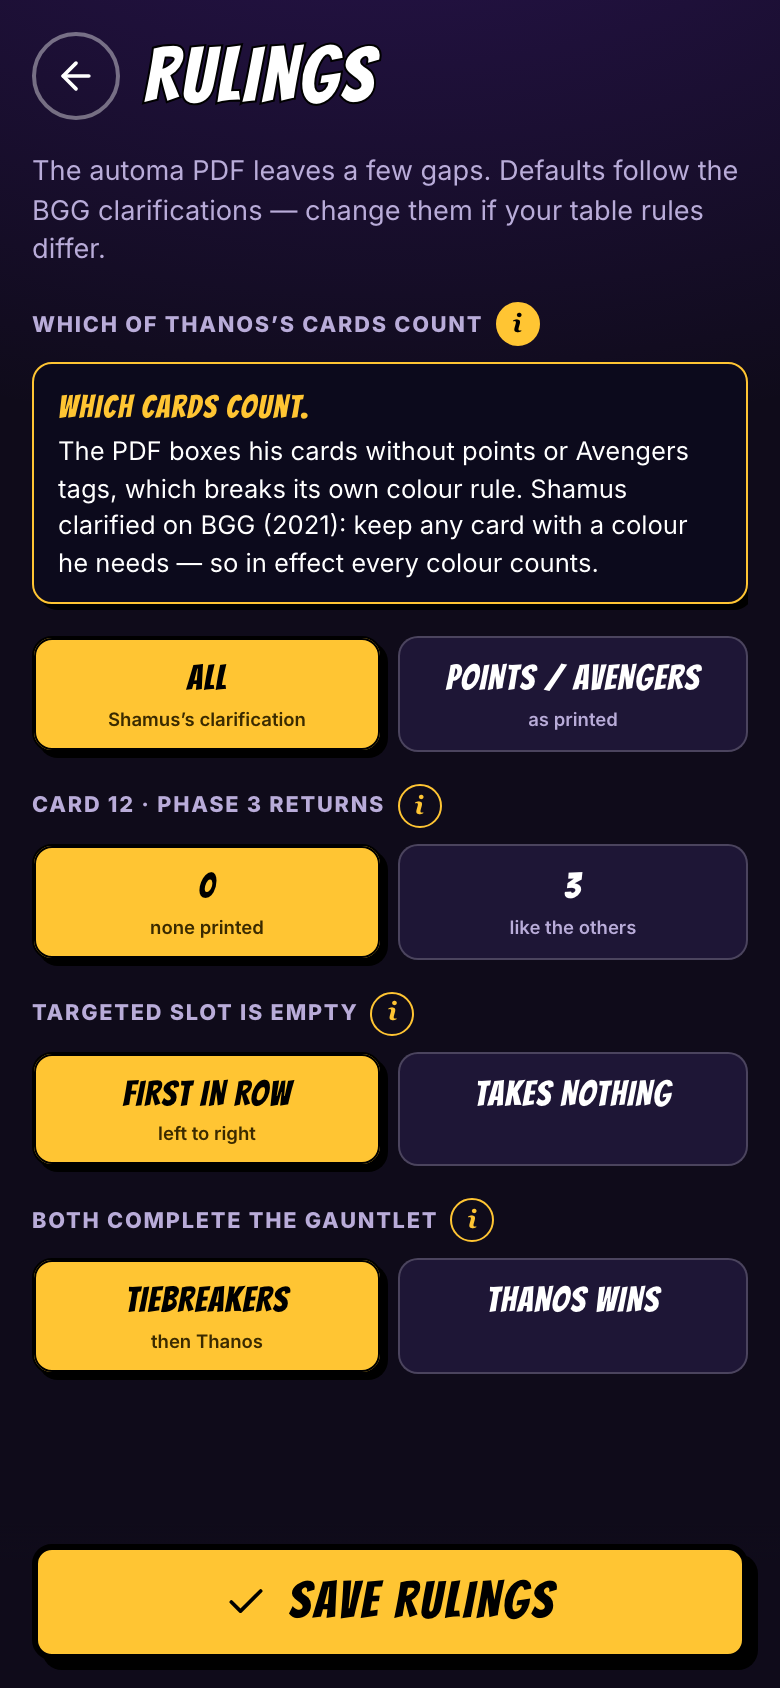
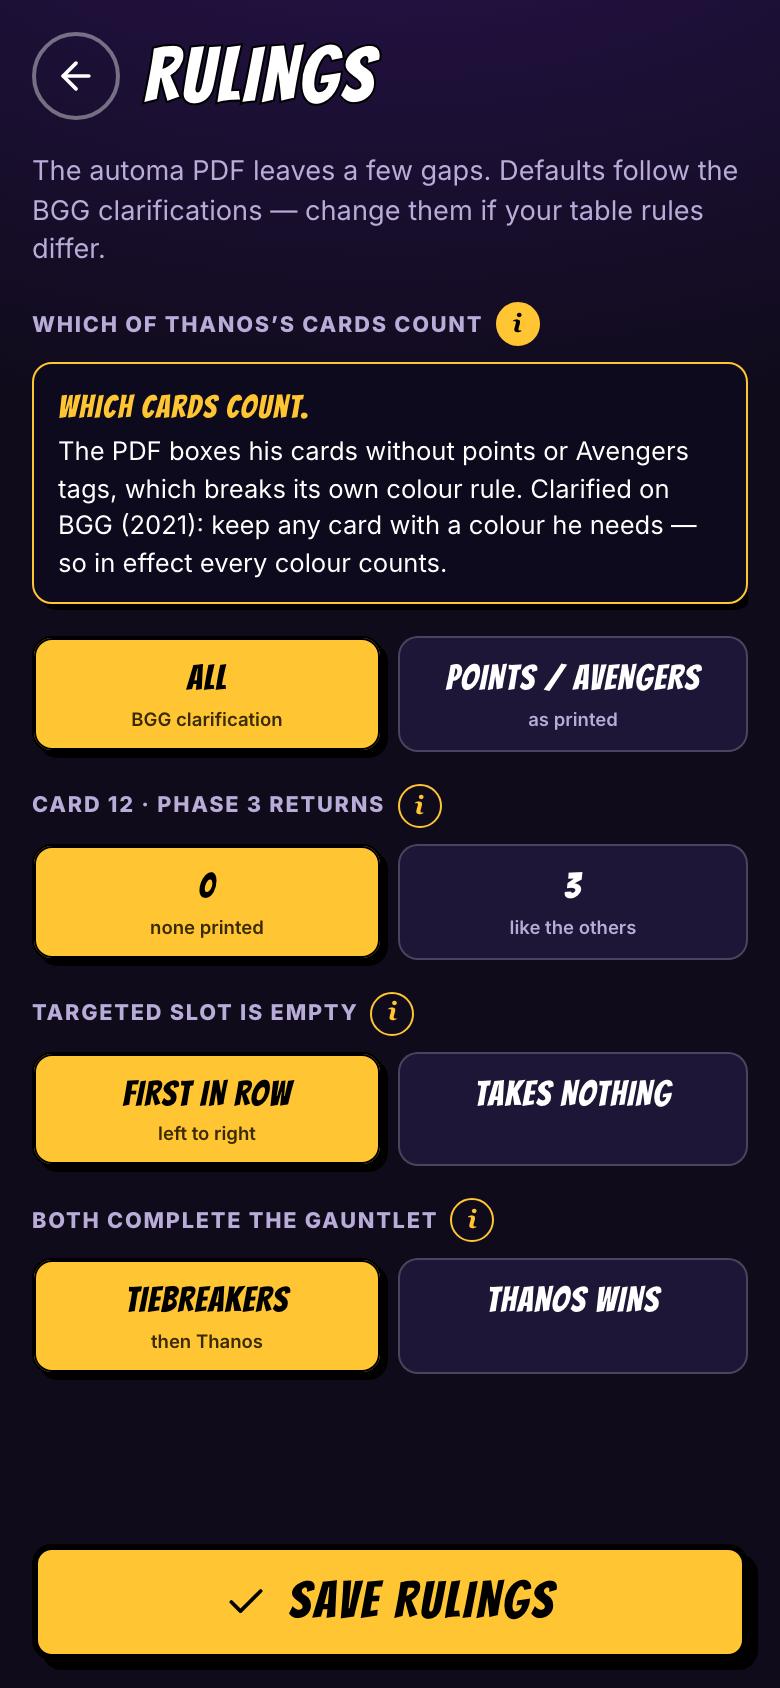
Stop naming the Marvel re-theme's author (#91)
The re-theme's author asked not to be credited, so the name is gone from the app (credits, copyright notice and ruling hints, in five languages), the landing page, the docs and the design. AGENTS.md now says never to name them.

Changed region(s): [[0.0615, 0.2773, 0.8923, 0.3389], [0.1538, 0.4005, 0.3692, 0.4313]]

diff --git a/src/ui/App.test.tsx b/src/ui/App.test.tsx
@@ -86,7 +86,7 @@ describe('home, setup and rulings (#44)', () => {
     await user.click(screen.getByRole('button', { name: /12 TOKENS/ }))
     await user.click(screen.getByRole('button', { name: /Rulings for gaps/ }))
     await user.click(screen.getByRole('button', { name: 'Rule: Which cards count' }))
-    expect(screen.getByRole('note')).toHaveTextContent(/Shamus clarified on BGG/)
+    expect(screen.getByRole('note')).toHaveTextContent(/Clarified on BGG \(2021\)/)
     await user.click(screen.getByRole('button', { name: 'SAVE RULINGS' }))
     await user.click(screen.getByRole('button', { name: 'START GAME' }))
 

diff --git a/src/engine/settings.ts b/src/engine/settings.ts
@@ -15,7 +15,7 @@ export interface Settings {
   readonly emptySlot: 'firstInRow' | 'nothing'
   /** Both sides complete the Gauntlet: official tiebreakers then Thanos, or Thanos outright. */
   readonly ties: 'tiebreakersThenThanos' | 'thanosWins'
-  /** Which of Thanos's cards count: all (Shamus's clarification) or only scoring/Avengers cards. */
+  /** Which of Thanos's cards count: all (the BGG clarification) or only scoring/Avengers cards. */
   readonly countedCards: 'all' | 'scoringOnly'
   /** Maximum tokens in Thanos's stack; the oldest beyond it go back to the supply. */
   readonly stackCap: number | null

diff --git a/src/ui/components/Credits.tsx b/src/ui/components/Credits.tsx
@@ -22,13 +22,6 @@ export function Credits({ tone = 'dark' }: { tone?: 'dark' | 'paper' }) {
           {t('credits.automa.after')}
         </li>
         <li>
-          <strong>{t('credits.retheme.name')}</strong>: {t('credits.retheme.before')}{' '}
-          <a href="https://boardgamegeek.com/filepage/215783" target="_blank" rel="noreferrer">
-            Shamus
-          </a>{' '}
-          {t('credits.retheme.after')}
-        </li>
-        <li>
           <strong>{t('credits.fonts.name')}</strong>: {t('credits.fonts.text')}
         </li>
       </ul>

diff --git a/site/index.html b/site/index.html
@@ -421,7 +421,6 @@ npm run build
           <ul>
             <li>{{credits.game}}</li>
             <li>{{credits.automa}}</li>
-            <li>{{credits.retheme}}</li>
             <li>{{credits.fonts}}</li>
           </ul>
           <p>{{credits.trademarks}}</p>

diff --git a/docs/automa.md b/docs/automa.md
@@ -9,9 +9,11 @@ The automa this app runs. A copy of the PDF, `splendor-marvel-solo-automa-v1.pdf
 - **Automa design:** Dukefanblue2005 (BGG), originally made for base Splendor:
   [Splendor Automa](https://boardgamegeek.com/filepage/201926),
   [design thread](https://boardgamegeek.com/thread/2430634).
-- **Marvel re-theme:** Shamus (BGG):
-  [Splendor Marvel Solo Automa V1](https://boardgamegeek.com/filepage/215783). The 12 Marvel cards are
-  a 1:1 renumbered port of the base-game cards. There is no Marvel V2.
+- **Marvel re-theme:**
+  [Splendor Marvel Solo Automa V1](https://boardgamegeek.com/filepage/215783) on BGG. Its author
+  prefers not to be credited, so this project doesn't name them (see the
+  [community note](#community-note)). The 12 Marvel cards are a 1:1 renumbered port of the base-game
+  cards. There is no Marvel V2.
 
 ## Components
 
@@ -113,7 +115,7 @@ Checked against a high-resolution render of the PDF. Token numbers refer to the 
 ## Clarifications from BGG
 
 1. **Which cards Thanos keeps.** The PDF says to box cards without points or Avengers tags, which
-   breaks the colour rule. Shamus,
+   breaks the colour rule. The re-theme's author clarified on its file page,
    [2021-07-18](https://boardgamegeek.com/filepage/215783?commentid=10332239):
 
    > "keep the card if is has a colour the automa needs or if it provides points or it has the
@@ -141,7 +143,7 @@ that updates this table.
 
 | Question | Default | Alternatives | Basis |
 | --- | --- | --- | --- |
-| Which of Thanos's cards count for colours and the Gauntlet | **All of them** | Only cards with points or Avengers tags (as printed) | Shamus's clarification (1) |
+| Which of Thanos's cards count for colours and the Gauntlet | **All of them** | Only cards with points or Avengers tags (as printed) | BGG clarification by the re-theme's author (1) |
 | Card 12, phase 3 discard | **0** | 3 | Matches the base-game card (3) |
 | Targeted slot is empty | **First card in that row from the left** (colour substitution still applies) | Thanos takes nothing and discards nothing | No ruling (4); left-to-right matches the substitution scan |
 | Both sides complete the Gauntlet in the same round | **Official tiebreakers, then Thanos wins any remaining tie** | Thanos wins outright | The PDF says "apply the normal game winning conditions" and "Thanos wins a draw" |
@@ -150,12 +152,20 @@ that updates this table.
 
 ## Community note
 
-On 2026-10-06 Shamus wrote that he "really hate[s] the idea of a webapp", and asked for two app links
-to be removed from his file page
+On 2026-10-06 the re-theme's author wrote that they "really hate the idea of a webapp", and asked for
+two app links to be removed from its file page
 ([comment 1](https://boardgamegeek.com/filepage/215783?commentid=13729218),
 [comment 2](https://boardgamegeek.com/filepage/215783?commentid=13730978)). By contrast,
 Dukefanblue2005 promoted RIFO's web app for the base-game automa
 ([comment](https://boardgamegeek.com/filepage/201926?commentid=10065450)).
 
-This is a personal project. **Don't post it on Shamus's file page.** Credit both designers, and don't
-use the PDF's artwork.
+Before sharing anything, the owner asked the re-theme's author by GeekMail. The reply, on 2026-10-31:
+"I prefer not to be credited. I don't own any of the IP."
+
+So:
+
+- **Don't post this app on the re-theme's file page.**
+- **Don't name the re-theme's author**, in the app, docs, commits or posts (#90). Credit
+  Dukefanblue2005 for the automa, and cite clarifications as "BGG clarification", with the link.
+- **Don't add more of the PDF's artwork.** The card back is the one exception the owner approved
+  (`src/ui/assets/official/`).

diff --git a/README.md b/README.md
@@ -81,9 +81,8 @@ points, and checks the Infinity Gauntlet for both sides. The
     [BoardGameGeek page](https://boardgamegeek.com/boardgame/293296/splendor-marvel). You need the
     physical game to use the app.
 - **The solo automa** was designed by **Dukefanblue2005** on BGG, originally for Splendor
-  ([Splendor Automa](https://boardgamegeek.com/filepage/201926)).
-- **The Marvel re-theme of the automa** is by **Shamus** on BGG
-  ([Splendor Marvel Solo Automa V1](https://boardgamegeek.com/filepage/215783)).
+  ([Splendor Automa](https://boardgamegeek.com/filepage/201926)). The app runs its Marvel re-theme,
+  whose author prefers not to be credited.
 
 **Fonts:**
 - **Bangers Cyrillic** is the display font for every language: Bangers © 2011 Vernon Adams, under the
@@ -100,8 +99,8 @@ their owners. They are used here for personal, non-commercial use only.
 This is an unofficial personal fan project. It is not affiliated with or endorsed by Space Cowboys,
 Asmodee or Marvel, and you need the physical game to use it.
 
-Shamus has said he dislikes web apps for his automa and asked that links to them be removed from his
-BGG file page. **Please don't post this app there.** See the
+The author of the Marvel re-theme dislikes web apps for it and asked for links to them to be removed
+from its BGG file page. **Please don't post this app there.** See the
 [community note](docs/automa.md#community-note).
 
 ## Deploy

diff --git a/AGENTS.md b/AGENTS.md
@@ -44,8 +44,10 @@ change to a rule or ruling updates the docs in the same PR.
   - `src/engine/` is plain TypeScript: no React, DOM, `Date.now()` or `Math.random()`.
   - All randomness comes from the seeded RNG.
   - Game state is a pure function of `(seed, settings, events)`.
-- **Credit** Marc André and Space Cowboys (game), Dukefanblue2005 (automa) and Shamus (Marvel
-  re-theme) wherever credits appear.
+- **Credit** Marc André and Space Cowboys (game) and Dukefanblue2005 (automa) wherever credits
+  appear. **Never name the author of the Marvel re-theme**, in the app, docs, commits or posts: asked
+  directly, they replied "I prefer not to be credited. I don't own any of the IP" (#90). Cite their
+  BGG clarifications as "BGG clarification", with the link.
 - **Visibility.** The repo is **public**, by the owner's decision, and so is its landing page on
   GitHub Pages (`site/`, #61).
   - Never commit the copyrighted PDFs. They live in the `reference-docs` release, which the owner

diff --git a/docs/reference/README.md b/docs/reference/README.md
@@ -13,7 +13,7 @@ You need an authenticated `gh` CLI with access to the repo.
 | File | What | Original source |
 | --- | --- | --- |
 | `splendor-marvel-rulebook-en.pdf` | Official English rulebook (4 pages). © 2020 Space Cowboys, © MARVEL | [Harris-Elmore Public Library copy](https://harriselmorelibrary.org/_files/ugd/46b448_8386770ea2af4e34ae404782bdcbc555.pdf) · [BGG](https://boardgamegeek.com/boardgame/293296/splendor-marvel) |
-| `splendor-marvel-solo-automa-v1.pdf` | Solo Automa V1. Automa by Dukefanblue2005, Marvel re-theme by Shamus | [BGG file page](https://boardgamegeek.com/filepage/215783) |
+| `splendor-marvel-solo-automa-v1.pdf` | Solo Automa V1. Automa by Dukefanblue2005; the author of the Marvel re-theme prefers not to be credited (#90) | [BGG file page](https://boardgamegeek.com/filepage/215783) |
 
 Text summaries are in [`../rules.md`](../rules.md) and [`../automa.md`](../automa.md).
 

diff --git a/src/ui/assets/official/README.md b/src/ui/assets/official/README.md
@@ -6,7 +6,7 @@ high resolution: the cover was rendered at 6× and the logos cut out.
 
 | File | What | Rights |
 | --- | --- | --- |
-| `automa-card-back.jpg` | Automa card back (518×759). The PDF draws "SOLO AUTOMA" as text on top of it, and the app does the same | Box art and logos © Space Cowboys / Asmodee and © MARVEL. Card design by Shamus (BGG) |
+| `automa-card-back.jpg` | Automa card back (518×759). The PDF draws "SOLO AUTOMA" as text on top of it, and the app does the same | Box art and logos © Space Cowboys / Asmodee and © MARVEL |
 | `splendor-logo.png` | Splendor wordmark (640×233) with a transparent background. The navy behind it was removed with a colour-distance matte, estimated row by row, with un-premultiplied edges | Splendor logo © Space Cowboys |
 | `marvel-logo.png` | MARVEL logo box (360×145), cropped exactly to the red box | MARVEL logo © MARVEL |
 

diff --git a/docs/guide/README.md b/docs/guide/README.md
@@ -180,6 +180,5 @@ It fails if any image has a different size.
 
 ## Credits
 
-Splendor Marvel is by Marc André, published by Space Cowboys. The solo automa is by Dukefanblue2005,
-and its Marvel re-theme by Shamus, both on BoardGameGeek. This is an unofficial fan tool; see the
-[main README](../../README.md#credits).
+Splendor Marvel is by Marc André, published by Space Cowboys. The solo automa is by Dukefanblue2005
+on BoardGameGeek. This is an unofficial fan tool; see the [main README](../../README.md#credits).
